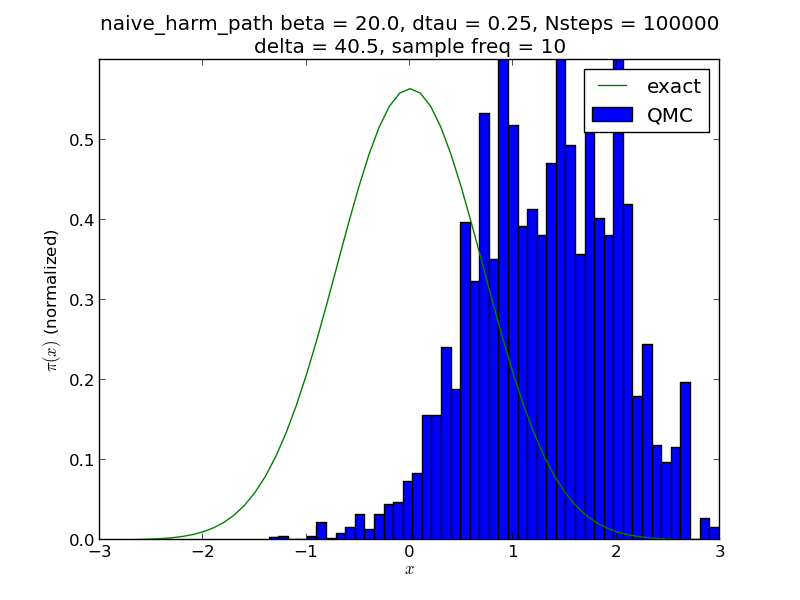
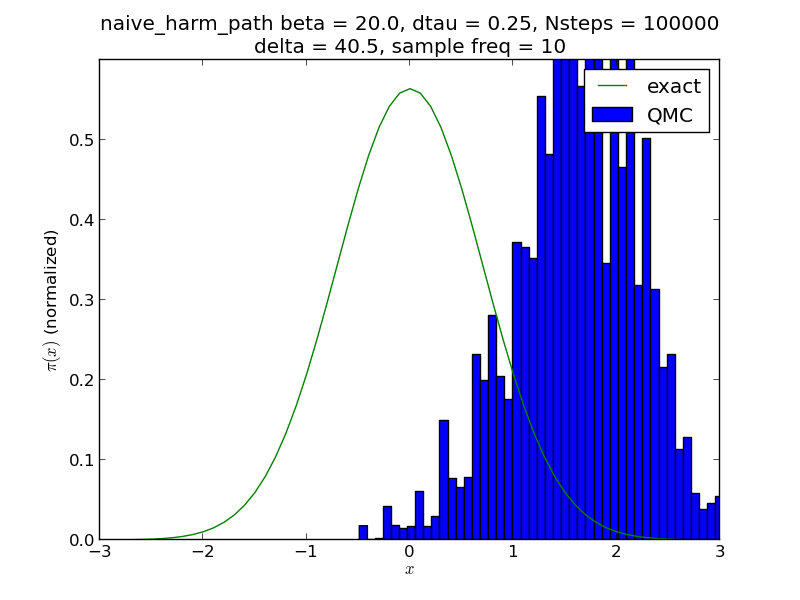
Nearly finished for the week...

Changed region(s): [[0.3438, 0.09, 0.9062, 0.9]]

diff --git a/statistical_mechanics_ens/week6/homework_w6_q_c1.py b/statistical_mechanics_ens/week6/homework_w6_q_c1.py
@@ -1,0 +1,47 @@
+import math, random, pylab
+ 
+def rho_free(x, y, beta):
+    return math.exp(-(x - y) ** 2 / (2.0 * beta))
+ 
+def levy_free_path(xstart, xend, dtau, N):
+    x = [xstart]
+    for k in range(1, N):
+        dtau_prime = (N - k) * dtau
+        x_mean = (dtau_prime * x[k - 1] + dtau * xend) / (dtau + dtau_prime)
+        sigma = math.sqrt(1.0 / (1.0 / dtau + 1.0 / dtau_prime))
+        x.append(random.gauss(x_mean, sigma))
+    return x
+ 
+beta = 20.0
+N = 80
+dtau = beta / N
+n_steps = 100000
+x = [0.0] * N
+data = []
+Weight_trott = lambda y: math.exp(sum(-a **2/ 2.0 * dtau for a in y))
+ 
+for step in range(n_steps):
+    Ncut = random.randint(0, N-1)
+    # x_new = levy_free_path(x[0], x[0], dtau, N)
+    x_new = levy_free_path(x[0], x[Ncut], dtau, Ncut) + x[Ncut:]
+    if random.uniform(0, 1) < min(1, Weight_trott(x_new) / Weight_trott(x)):
+        x = x_new[:]
+        k = random.randint(0, N - 1)
+        data.append(x[k])
+ 
+print len(data)
+ 
+pylab.hist(data, bins=50, normed=True, label='QMC')
+x_values = [0.1 * a for a in range (-30, 30)]
+y_values = [math.sqrt(math.tanh(beta / 2.0)) / math.sqrt(math.pi) * \
+                math.exp( - xx **2 * math.tanh( beta / 2.0)) for xx in x_values]
+pylab.plot(x_values, y_values, label='exact')
+pylab.xlabel('$x$')
+pylab.ylabel('$\\pi(x)$ (normalized)')
+pylab.axis([-3.0, 3.0, 0.0, 0.8])
+pylab.legend()
+ProgType = 'Levy_free_path'
+pylab.title(ProgType + ' beta = ' + str(beta) + ', dtau = ' + str(dtau) +
+            ', Nsteps = '+ str(n_steps))
+pylab.savefig(ProgType + str(beta) + '.png')
+pylab.show()

diff --git a/statistical_mechanics_ens/week6/homework_w6_q_b3.py b/statistical_mechanics_ens/week6/homework_w6_q_b3.py
@@ -1,0 +1,50 @@
+import math, random, pylab
+ 
+def rho_free(x, y, beta):
+    return math.exp(-(x - y) ** 2 / (2.0 * beta))
+ 
+def levy_harmonic_path(xstart, dtau, N):
+    xend = xstart
+    x = [xstart]
+    for k in range(1, N):
+        dtau_prime = (N - k) * dtau
+        Ups1 = 1.0 / math.tanh(dtau) + \
+               1.0 / math.tanh(dtau_prime)
+        Ups2 = x[k - 1] / math.sinh(dtau) + \
+               xend / math.sinh(dtau_prime)
+        x.append(random.gauss(Ups2 / Ups1, \
+               1.0 / math.sqrt(Ups1)))
+    return x
+    
+def std_deviation(x, beta):
+    return math.exp(- x ** 2 * math.tanh(beta / 2.0))
+ 
+beta = 10.0
+N = 80
+dtau = beta / N
+n_steps = 100000
+x = [2.0] * N
+data = []
+acc = 0
+xstart = 0.0
+for step in range(n_steps):
+    x = levy_harmonic_path(xstart, dtau, N)
+    k = random.randint(0, N - 1)
+    sigma = std_deviation(x[k], beta)
+    xstart = random.gauss(0.0, sigma)
+    data.append(x[k])
+ 
+pylab.hist(data, bins=50, normed=True, label='QMC')
+x_values = [0.1 * a for a in range (-30, 30)]
+y_values = [math.sqrt(math.tanh(beta / 2.0)) / math.sqrt(math.pi) * \
+                math.exp( - xx **2 * math.tanh( beta / 2.0)) for xx in x_values]
+pylab.plot(x_values, y_values, label='exact')
+pylab.xlabel('$x$')
+pylab.ylabel('$\\pi(x)$ (normalized)')
+pylab.axis([-3.0, 3.0, 0.0, 0.6])
+pylab.legend()
+ProgType = 'Standard_deviation_of_Levy_harm_path'
+pylab.title(ProgType + '\nbeta = ' + str(beta) + ', dtau = ' + str(dtau) +
+            ', Nsteps = '+ str(n_steps))
+pylab.savefig(ProgType + str(beta) + '.png')
+pylab.show()
